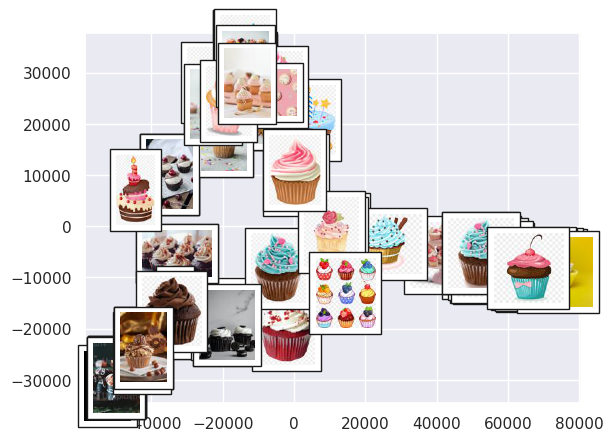
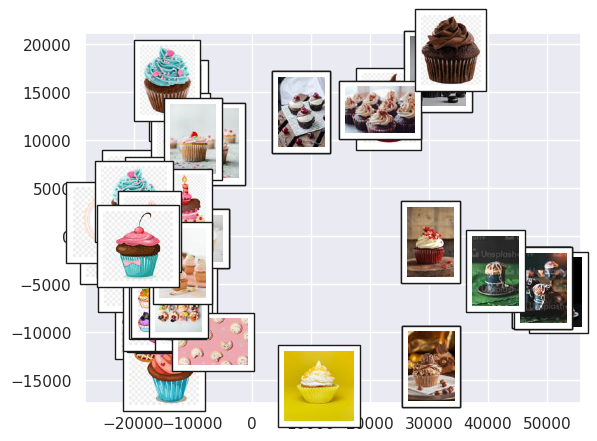
Generate Pelican site

diff --git a/getting an overview of cupcake thumbnails using manifold learning.html b/getting an overview of cupcake thumbnails using manifold learning.html
@@ -66,7 +66,7 @@
         <span class="n">image</span> <span class="o">=</span> <span class="n">pd</span><span class="o">.</span><span class="n">Series</span><span class="p">(</span><span class="n">np</span><span class="o">.</span><span class="n">asarray</span><span class="p">(</span><span class="n">Image</span><span class="o">.</span><span class="n">open</span><span class="p">(</span><span class="n">f</span><span class="p">))</span><span class="o">.</span><span class="n">ravel</span><span class="p">())</span>
         <span class="n">data</span> <span class="o">=</span> <span class="n">pd</span><span class="o">.</span><span class="n">concat</span><span class="p">([</span><span class="n">data</span><span class="p">,</span><span class="n">image</span><span class="o">.</span><span class="n">to_frame</span><span class="p">()</span><span class="o">.</span><span class="n">T</span><span class="p">],</span><span class="n">ignore_index</span><span class="o">=</span><span class="kc">True</span><span class="p">)</span>
 
-<span class="n">data</span> <span class="o">=</span> <span class="n">data</span><span class="o">.</span><span class="n">fillna</span><span class="p">(</span><span class="mi">0</span><span class="p">)</span>
+<span class="n">data</span> <span class="o">=</span> <span class="n">data</span><span class="o">.</span><span class="n">fillna</span><span class="p">(</span><span class="n">data</span><span class="o">.</span><span class="n">fillna</span><span class="p">(</span><span class="n">data</span><span class="o">.</span><span class="n">mean</span><span class="p">()))</span>
 <span class="n">fig</span><span class="p">,</span> <span class="n">ax</span> <span class="o">=</span> <span class="n">plt</span><span class="o">.</span><span class="n">subplots</span><span class="p">(</span><span class="mi">6</span><span class="p">,</span><span class="mi">10</span><span class="p">,</span><span class="n">subplot_kw</span><span class="o">=</span><span class="p">{</span><span class="s1">&#39;xticks&#39;</span><span class="p">:[],</span><span class="s1">&#39;yticks&#39;</span><span class="p">:[]})</span>
 <span class="k">for</span> <span class="n">i</span><span class="p">,</span> <span class="n">axi</span> <span class="ow">in</span> <span class="nb">enumerate</span><span class="p">(</span><span class="n">ax</span><span class="o">.</span><span class="n">flat</span><span class="p">):</span>
     <span class="n">axi</span><span class="o">.</span><span class="n">imshow</span><span class="p">(</span><span class="n">pics</span><span class="p">[</span><span class="n">i</span><span class="p">])</span>
@@ -97,7 +97,7 @@
 </code></pre></div>
 
 <p><img alt="png" src="./images/cupcakes_structured.png"></p>
-<p>We see that the lighter images are toward the top and the darker toward the bottom. Also, color seems to be segregated roughly with brown/pink toward the left and blue/yellow toward the right. We have thus gotten a structured overview of the dataset.</p>
+<p>We see that the images are segrated by brightness and color, with blue/pink images toward the left, brown/red toward the top center, yellow at the bottom center, and images with darker backgrounds/colors toward the right. We have thus gotten a structured overview of the dataset.</p>
 <p><a href="https://twitter.com/Estimatrix/status/1555693184977600512?s=20&amp;t=YFPoxpEQ2Qp14U4FliD7fA">Discuss on Twitter</a></p>
         </article>
 
